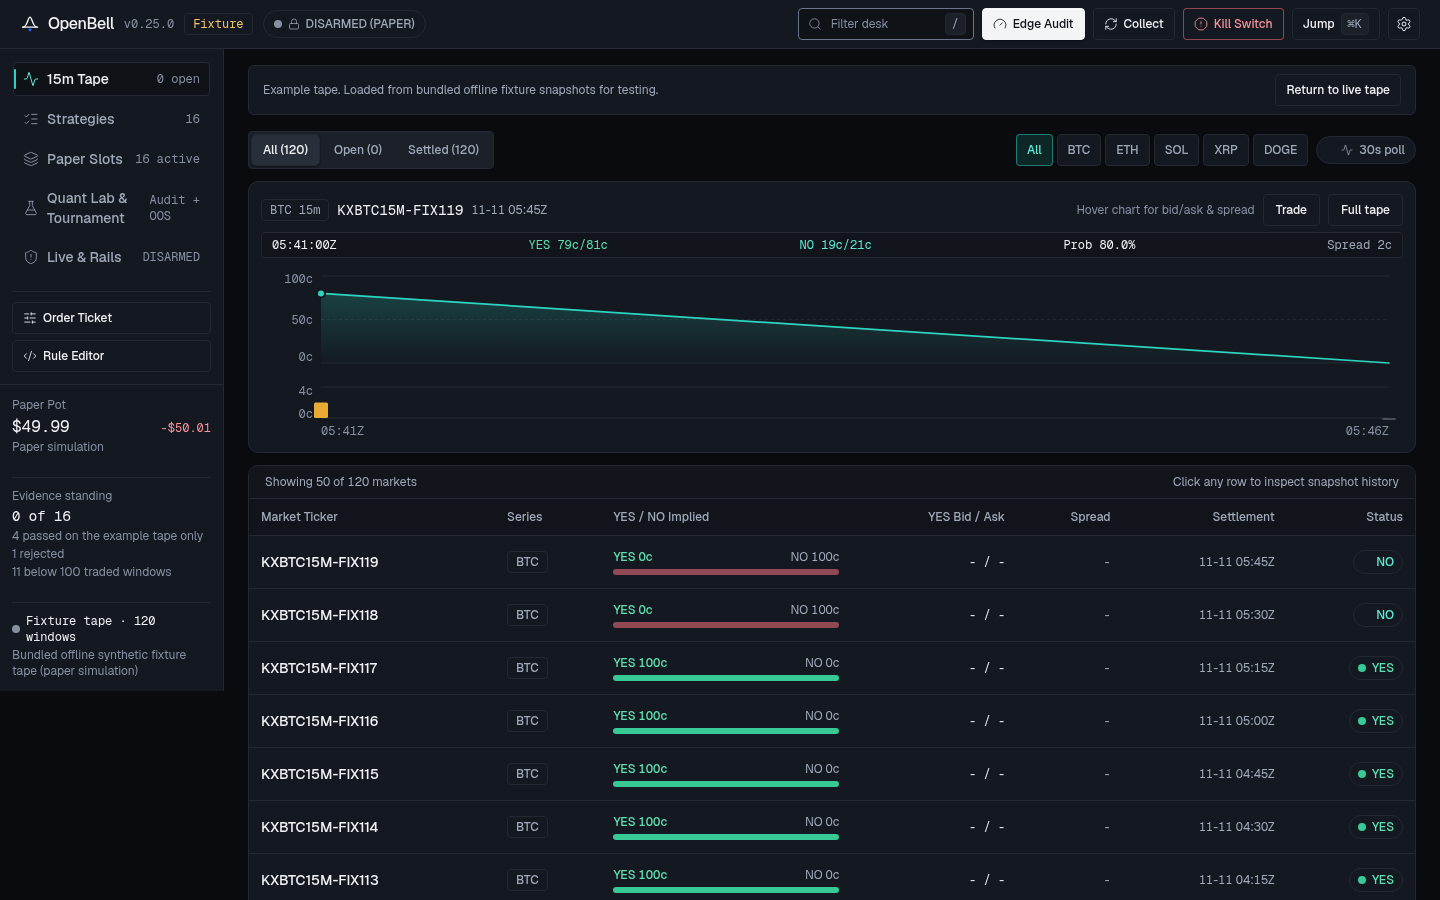
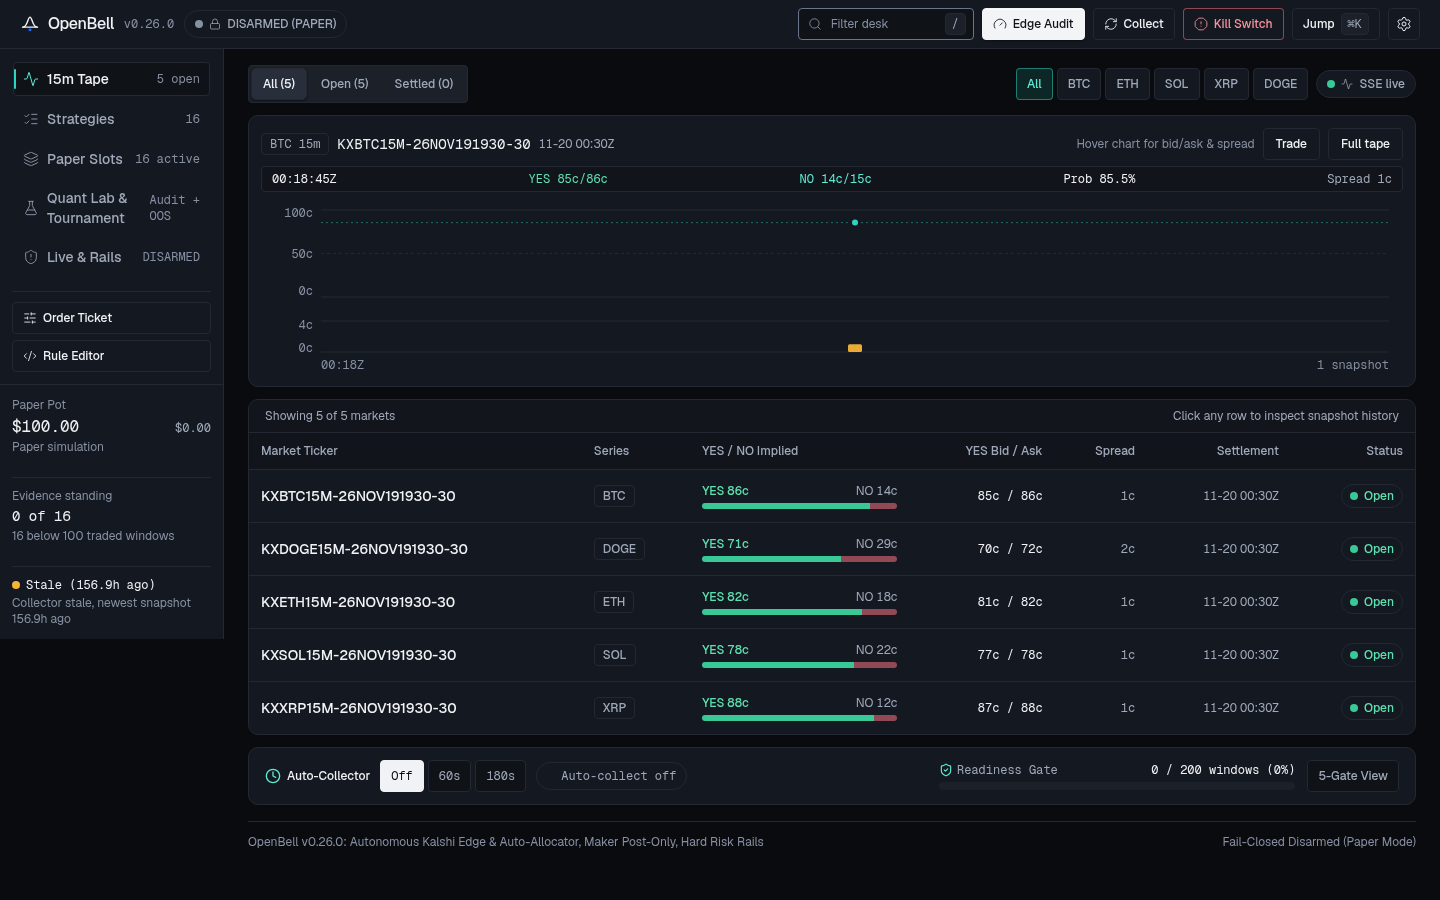
chore(release): prepare v0.26.0 live L2 orderbook stream and DOM ladder

diff --git a/tests/cli.rs b/tests/cli.rs
@@ -27,5 +27,5 @@ fn version_flag_prints_name_and_version_and_exits() {
     }
     let out = child.wait_with_output().unwrap();
     assert_eq!(String::from_utf8_lossy(&out.stdout).trim(), format!("openbell-rs {}", env!("CARGO_PKG_VERSION")));
-    assert_eq!(env!("CARGO_PKG_VERSION"), "0.25.0");
+    assert_eq!(env!("CARGO_PKG_VERSION"), "0.26.0");
 }

diff --git a/README.md b/README.md
@@ -1,17 +1,17 @@
 # OpenBell
 
-![version](https://img.shields.io/badge/version-v0.25.0-0969da?style=flat-square)
+![version](https://img.shields.io/badge/version-v0.26.0-0969da?style=flat-square)
 ![stack](https://img.shields.io/badge/stack-Rust%20%2B%20React%2019-111827?style=flat-square)
-![tests](https://img.shields.io/badge/tests-129%2F129%20pass-16a34a?style=flat-square)
-![binary](https://img.shields.io/badge/release%20binary-5.96%20MiB-0969da?style=flat-square)
+![tests](https://img.shields.io/badge/tests-136%2F136%20pass-16a34a?style=flat-square)
+![binary](https://img.shields.io/badge/release%20binary-6.03%20MiB-0969da?style=flat-square)
 ![safety](https://img.shields.io/badge/live__armed-false%20on%20boot-16a34a?style=flat-square)
 
-OpenBell is a local Rust trading workbench for 15-minute Kalshi prediction markets. It pairs a Kalshi Trade API v2 client (`live_armed: false` on every boot, seven hard risk rails, and an emergency kill switch) with a continuous tick-driven shadow orderbook runner (`entry_quote` resting quotes, queue-ahead depletion, and persistent fill/settlement logging), a deduplicating public 15-minute tape collector, and a causal post-only maker allocator.
+OpenBell is a local Rust trading workbench for 15-minute Kalshi prediction markets. It pairs a Kalshi Trade API v2 client (`live_armed: false` on every boot, seven hard risk rails, and an emergency kill switch) with a live WebSocket + REST L2 orderbook stream (`OrderbookStore` book-walk VWAP sizing and DOM depth ladder), a continuous tick-driven shadow orderbook runner (`entry_quote` resting quotes, queue-ahead depletion, and persistent fill/settlement logging), a deduplicating public 15-minute tape collector, and a causal post-only maker allocator.
 
 <picture>
   <source media="(prefers-color-scheme: dark)" srcset="docs/screenshots/hero-dark.png">
   <source media="(prefers-color-scheme: light)" srcset="docs/screenshots/hero-light.png">
-  <img alt="OpenBell v0.25.0 Desktop Quant Workbench" src="docs/screenshots/hero-light.png">
+  <img alt="OpenBell v0.26.0 Desktop Quant Workbench" src="docs/screenshots/hero-light.png">
 </picture>
 
 ## Feature gallery
@@ -51,6 +51,18 @@ OpenBell is a local Rust trading workbench for 15-minute Kalshi prediction marke
       </picture>
     </td>
   </tr>
+  <tr>
+    <td colspan="2" valign="top">
+      <strong>Live L2 Orderbook &amp; VWAP Depth Ladder (<code>v0.26.0</code>)</strong><br>
+      <sub>Streams Kalshi Trade API v2 L2 snapshots and deltas with exponential-backoff REST fallback, walks real bid/ask levels to price order VWAP and slippage in <code>ShadowRunner</code> and the post-only allocator, and mounts clickable depth ladders inside both the Tape Market Inspector and Live Order Ticket.</sub>
+      <br><br>
+      <picture>
+        <source media="(prefers-color-scheme: dark)" srcset="docs/screenshots/orderbook-ladder-dark.png">
+        <source media="(prefers-color-scheme: light)" srcset="docs/screenshots/orderbook-ladder-light.png">
+        <img alt="OpenBell v0.26.0 L2 Orderbook Depth Ladder and VWAP Impact Preview" src="docs/screenshots/orderbook-ladder-light.png">
+      </picture>
+    </td>
+  </tr>
 </table>
 
 ## Causal execution and fail-closed risk pipeline
@@ -67,16 +79,16 @@ flowchart LR
   R -- "confirm_arm = true" --> K["Kalshi Trade API v2 (RSA-PSS SHA-256)"]
 ```
 
-## Verified baseline (`v0.25.0`)
+## Verified baseline (`v0.26.0`)
 
-| Metric | `v0.10.0` Baseline | `v0.25.0` Verified | Delta |
+| Metric | `v0.10.0` Baseline | `v0.26.0` Verified | Delta |
 | --- | --- | --- | --- |
-| Release binary size (`strip`, `lto = "fat"`) | `10.66 MB` (`11,179,360 B`) | **`5.96 MiB`** (`6,247,776 B`) | **`-44.1%`** |
-| Initial `GET /` shell (raw / gzip) | `1,152,017 B` / `423,382 B` | **`94 kB`** / **`22 kB`** (`22` `/chunks/*`) | **`-94.8%` wire bytes** |
-| Cold boot to first `HTTP 200` | `9.11 ms` | **`4.9 ms`** | **`-46.2%`** |
-| Peak RSS (`VmHWM`) | `125.55 MB` (`128,560 KB`) | **`17.99 MB`** (`18,424 KB`) | **`-85.7%`** |
-| Concurrent HTTP throughput (30w, `5/5` SSE) | `4,921.3 req/s` | **`5,224.7 req/s`** (`4.68 ms` p95, `0` errors) | **Higher + `ShadowRunner`** |
-| Security and test verification | `49/49` fuzz | **`129/129` Rust tests**, `25/25` raw-TCP fuzz, `gate 103/103`, `replay 18/18`, `sloplint 0/0/0`, `RAILS OK`, `EQUITY OK` | Clean |
+| Release binary size (`strip`, `lto = "fat"`) | `10.66 MB` (`11,179,360 B`) | **`6.03 MiB`** (`6,325,600 B`) | **`-43.4%`** |
+| Initial `GET /` shell (raw / gzip) | `1,152,017 B` / `423,382 B` | **`95 kB`** (`97,378 B`) / **`21.8 KiB`** (`22,291 B`, `22` chunks) | **`-94.7%` wire bytes** |
+| Cold boot to first `HTTP 200` | `9.11 ms` | **`7.72 ms`** | **`-15.3%`** |
+| Peak RSS (`VmHWM`) | `125.55 MB` (`128,560 KB`) | **`18.26 MB`** (`18,696 KB`) | **`-85.5%`** |
+| Concurrent HTTP throughput (`16w`, `5/5` SSE) | `4,921.3 req/s` | **`3,265.1 req/s`** (`7.84 ms` p95, `0/8,167` errors) | **Live L2 + `ShadowRunner`** |
+| Security and test verification | `49/49` fuzz | **`136/136` Rust tests**, `25/25` raw-TCP fuzz, `gate 104/104`, `replay 18/18`, `sloplint 0/0/0`, `RAILS OK`, `EQUITY OK` | Clean |
 
 ## Quick start (synthetic paper mode)
 

diff --git a/CHANGELOG.md b/CHANGELOG.md
@@ -4,6 +4,13 @@ Each release is tagged `vMAJOR.MINOR.PATCH` and published on GitHub Releases wit
 binaries and a `SHA256SUMS` file. The running desk shows its version and can update
 itself from the newest release (see README, "Versions and updates").
 
+## 0.26.0 - 2026-11-26
+
+- Added a live Kalshi Trade API v2 L2 Orderbook store, RFC 6455 WebSocket depth client with RSA-PSS handshake signing, exponential-backoff REST L2 poller, sequence-gap resync detection, and exact book-walk VWAP/slippage sizing in `src/orderbook.rs` and `src/kalshi_live.rs` with zero new external Cargo dependencies.
+- Wired L2 book-walk execution and queue-ahead estimation into `src/shadow_runner.rs` and `src/auto_allocator.rs` (falling back to quote midpoint metrics cleanly when depth is missing or stale), alongside `/api/orderbook`, `/api/orderbook/stream-status`, CSRF-guarded `POST /api/orderbook/subscribe`, throttled `event: orderbook` SSE frames, and `"orderbook_l2": true` in `/api/home`, keeping `live_armed: false` on boot.
+- Built `frontend/src/lib/orderbook.ts` and `frontend/src/OrderbookLadder.tsx` mounted inside `TapeTab.tsx` (Market Inspector auto-subscribe + live stream) and `LiveTradingPanel.tsx` (clickable bid/ask rows populating `#live-ticket-price` and live VWAP impact preview).
+- Added `docs/screenshots/orderbook-ladder-{light,dark}.png`, updated version parity to `0.26.0`, and verified post-final-edit: `clippy` 0 warnings, `x86_64-pc-windows-msvc` check ok, `136/136` Rust tests, `gate 104/104`, `replay 18/18`, `SLOP 0/0/0`, `RAILS OK`, `EQUITY OK`, `6.03 MiB` (`6,325,600 B`) release binary, `7.72 ms` boot, `18.26 MB` RSS, `3,265.1 req/s` (`7.84 ms` p95, `0/8,167` errors), `5/5` SSE, and `25/25` fuzz.
+
 ## 0.25.0 - 2026-11-26
 
 - Added a continuous tick-driven Paper/Shadow Orderbook Matching Engine and fail-closed automated multi-slot Strategy Runner in `src/shadow_runner.rs` (`ShadowRunner`), wired into `src/main.rs` via `/api/runner/{status,config,start,stop,ledger}`, `event: runner` SSE frames, and atomic `runner.emergency_halt()` inside `POST /api/live/kill-switch` before `cancel_all_orders()`.
